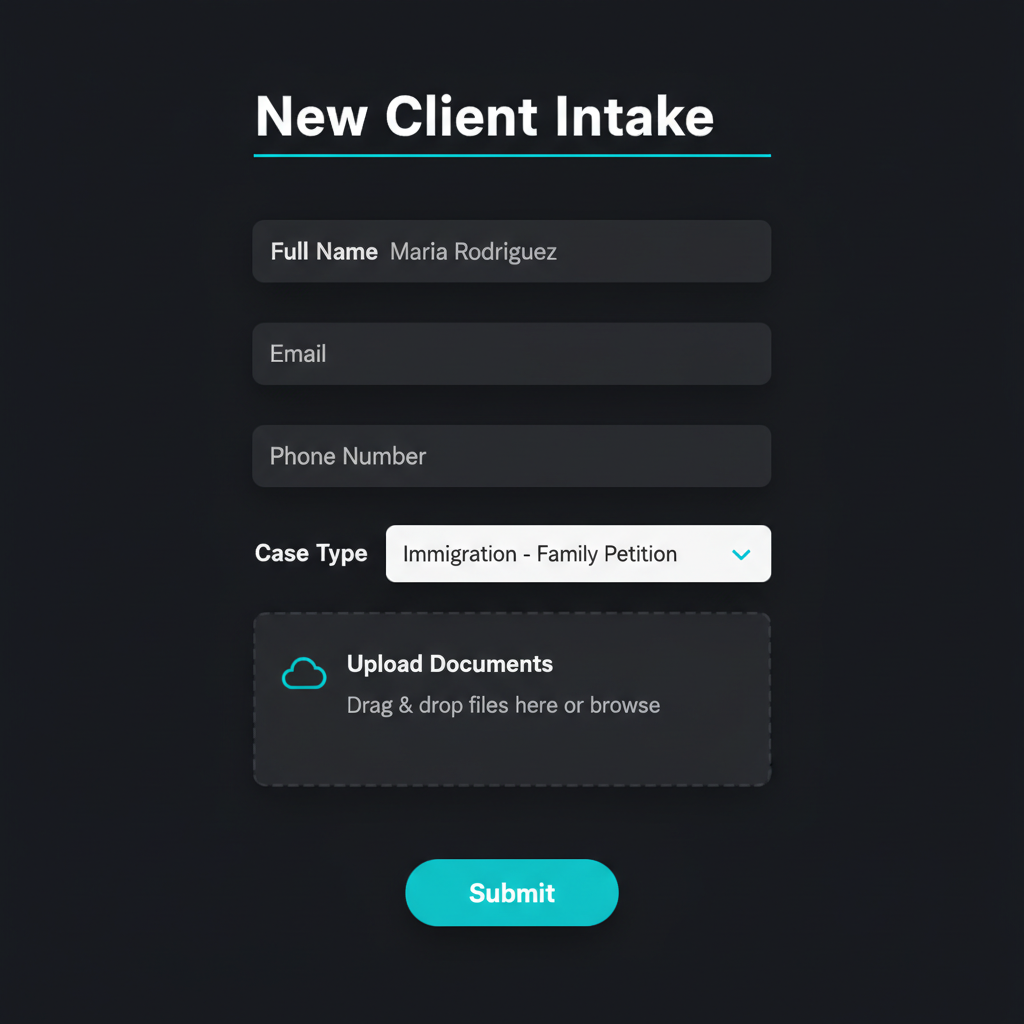
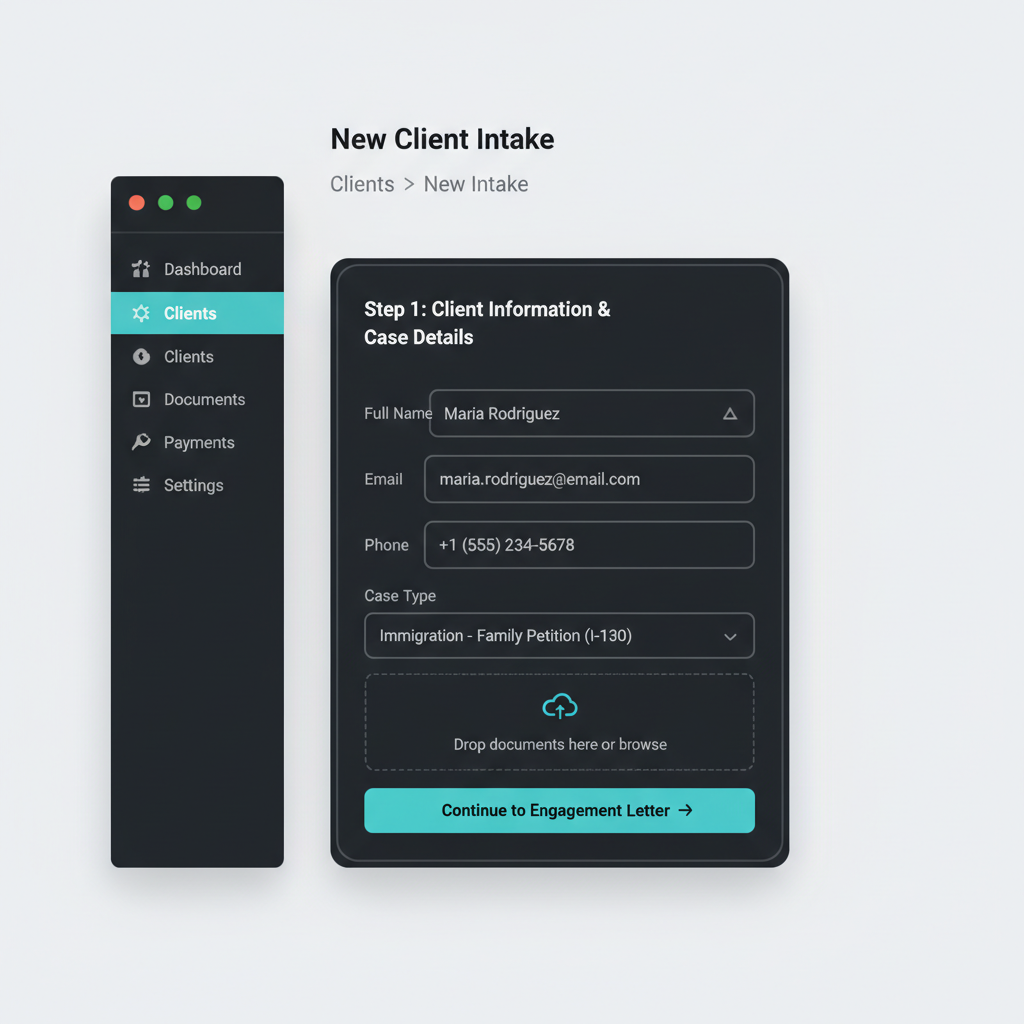
fix: replace inconsistent mockups with reference-based consistent UI + add hero user image
- All 4 step mockups now generated from same reference image (consistent sidebar, colors, layout)
- Problem section inbox mockup uses same design system
- Hero section: added lifestyle photo of attorney using IntakeLink (2-column layout)
- Hero grid now responsive: 2-col desktop, 1-col mobile

diff --git a/index.html b/index.html
@@ -225,7 +225,8 @@
     @keyframes shimmer { 0% { background-position: 0% 50%; } 50% { background-position: 100% 50%; } 100% { background-position: 0% 50%; } }
 
     /* ── Hero grid ── */
-    .hero-grid { display: grid; grid-template-columns: 1fr; gap: 3rem; align-items: center; max-width: 680px; }
+    .hero-grid { display: grid; grid-template-columns: 1fr 1fr; gap: 3rem; align-items: center; max-width: 1120px; }
+    @media (max-width: 768px) { .hero-grid { grid-template-columns: 1fr; } .hero-image { display: none; } }
 
     /* ── Mobile helpers ── */
     .hide-mobile { }
@@ -309,6 +310,11 @@
             </a>
             <a href="#how-it-works" class="btn-ghost">See how it works ↓</a>
           </div>
+        </div>
+
+        <!-- Right: Hero user image -->
+        <div class="hero-image reveal reveal-delay-2" style="border-radius:20px;overflow:hidden;box-shadow:0 20px 60px rgba(0,0,0,0.4);border:1px solid var(--border);">
+          <img src="images/hero-user.png" alt="Attorney using IntakeLink to manage client intake" style="width:100%;height:auto;display:block;" loading="eager" />
         </div>
 
       </div>
